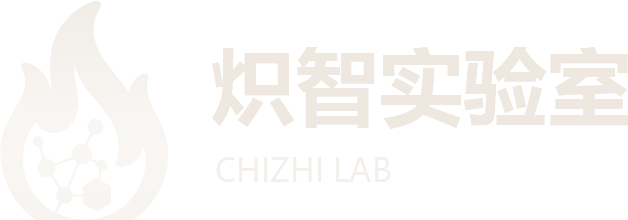
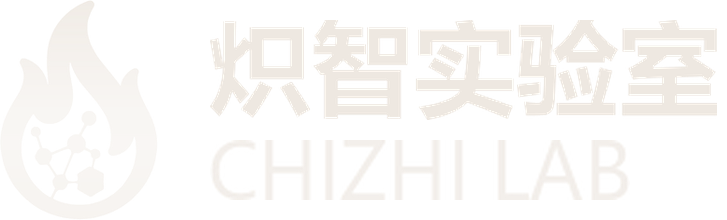
Balance the Chizhi bilingual lab mark

Changed region(s): [[0.2723, 0.0818, 1.0, 0.6], [0.121, 0.0, 0.1513, 0.0273], [0.0908, 0.0273, 0.121, 0.0545]]

diff --git a/assets/README.md b/assets/README.md
@@ -8,6 +8,6 @@
 - `thermal-history-demo.gif`：热工件转移和接触余热的加速演示。
 - `thermal-interaction-sequence.png`：转运、再抓持、冷却的RGB/温度序列。
 - `trr-overview.png`：原有技术总览；`rgbt-backends.png`：两后端成像示例。
-- `trr-logo.png`：TRR热手印标志；机构标志沿用既有素材，`chizhi-brand.png` 为去除底部小字的炽智标志。
+- `trr-logo.png`：TRR热手印标志；机构标志沿用既有素材，`chizhi-brand.png` 为重排中英文并去除底部宣传语的炽智标志。
 
 原有图像、模型、纹理与标志的作者版权及各自许可保持不变。本清单不将第三方素材重新声明为统一开源许可。网页视频不等同于产线验证或策略实机成功率。
